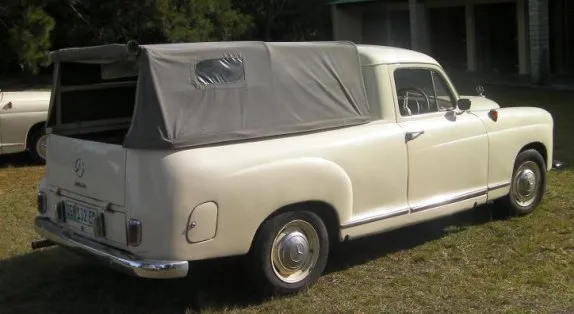
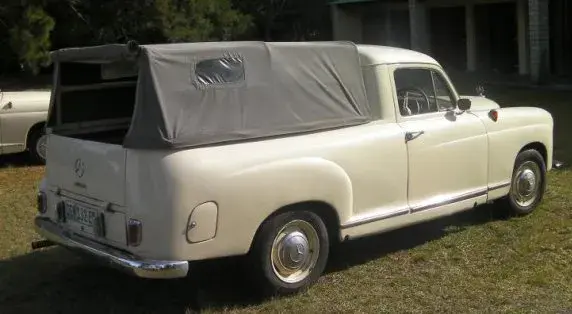
246

diff --git a/pic/ja_mb_img_e.html b/pic/ja_mb_img_e.html
@@ -397,7 +397,7 @@
 						<a href="full/e/w120k_r.jpg"><img loading="lazy" src="style/e/w120k_r.webp" alt="メルセデス,W120,kombi,リヤ" width="602" height="452"></a>
 						<h5>Pickup Truck</h5>
 						<a href="full/e/w120t_f.jpg"><img loading="lazy" src="style/e/w120t_f.webp" alt="メルセデス,W120,Pickup Truck,フロント" width="632" height="314"></a>
-						<a href="full/e/w120t_r.jpg"><img loading="lazy" src="style/e/w120t_r.webp" alt="メルセデス,W120,Pickup Truck,リヤ" width="574" height="314"></a>
+						<a href="full/e/w120t_r.jpg"><img loading="lazy" src="style/e/w120t_r.webp" alt="メルセデス,W120,Pickup Truck,リヤ" width="572" height="314"></a>
 					</section>
 				</div>
 			</div>

diff --git a/pic/en_mb_img_e.html b/pic/en_mb_img_e.html
@@ -397,7 +397,7 @@
 						<a href="full/e/w120k_r.jpg"><img loading="lazy" src="style/e/w120k_r.webp" alt="Mercedes,W120,kombi,Rear view" width="602" height="452"></a>
 						<h5>Pickup Truck</h5>
 						<a href="full/e/w120t_f.jpg"><img loading="lazy" src="style/e/w120t_f.webp" alt="Mercedes,W120,Pickup Truck,Front view" width="632" height="314"></a>
-						<a href="full/e/w120t_r.jpg"><img loading="lazy" src="style/e/w120t_r.webp" alt="Mercedes,W120,Pickup Truck,Rear view" width="574" height="314"></a>
+						<a href="full/e/w120t_r.jpg"><img loading="lazy" src="style/e/w120t_r.webp" alt="Mercedes,W120,Pickup Truck,Rear view" width="572" height="314"></a>
 					</section>
 				</div>
 			</div>

diff --git a/pic/mb_img_e.html b/pic/mb_img_e.html
@@ -397,7 +397,7 @@
 						<a href="full/e/w120k_r.jpg"><img loading="lazy" src="style/e/w120k_r.webp" alt="Mercedes,W120,kombi,Rückansicht" width="602" height="452"></a>
 						<h5>Pick-up</h5>
 						<a href="full/e/w120t_f.jpg"><img loading="lazy" src="style/e/w120t_f.webp" alt="Mercedes,W120,Pick-up,Frontansicht" width="632" height="314"></a>
-						<a href="full/e/w120t_r.jpg"><img loading="lazy" src="style/e/w120t_r.webp" alt="Mercedes,W120,Pick-up,Rückansicht" width="574" height="314"></a>
+						<a href="full/e/w120t_r.jpg"><img loading="lazy" src="style/e/w120t_r.webp" alt="Mercedes,W120,Pick-up,Rückansicht" width="572" height="314"></a>
 					</section>
 				</div>
 			</div>
